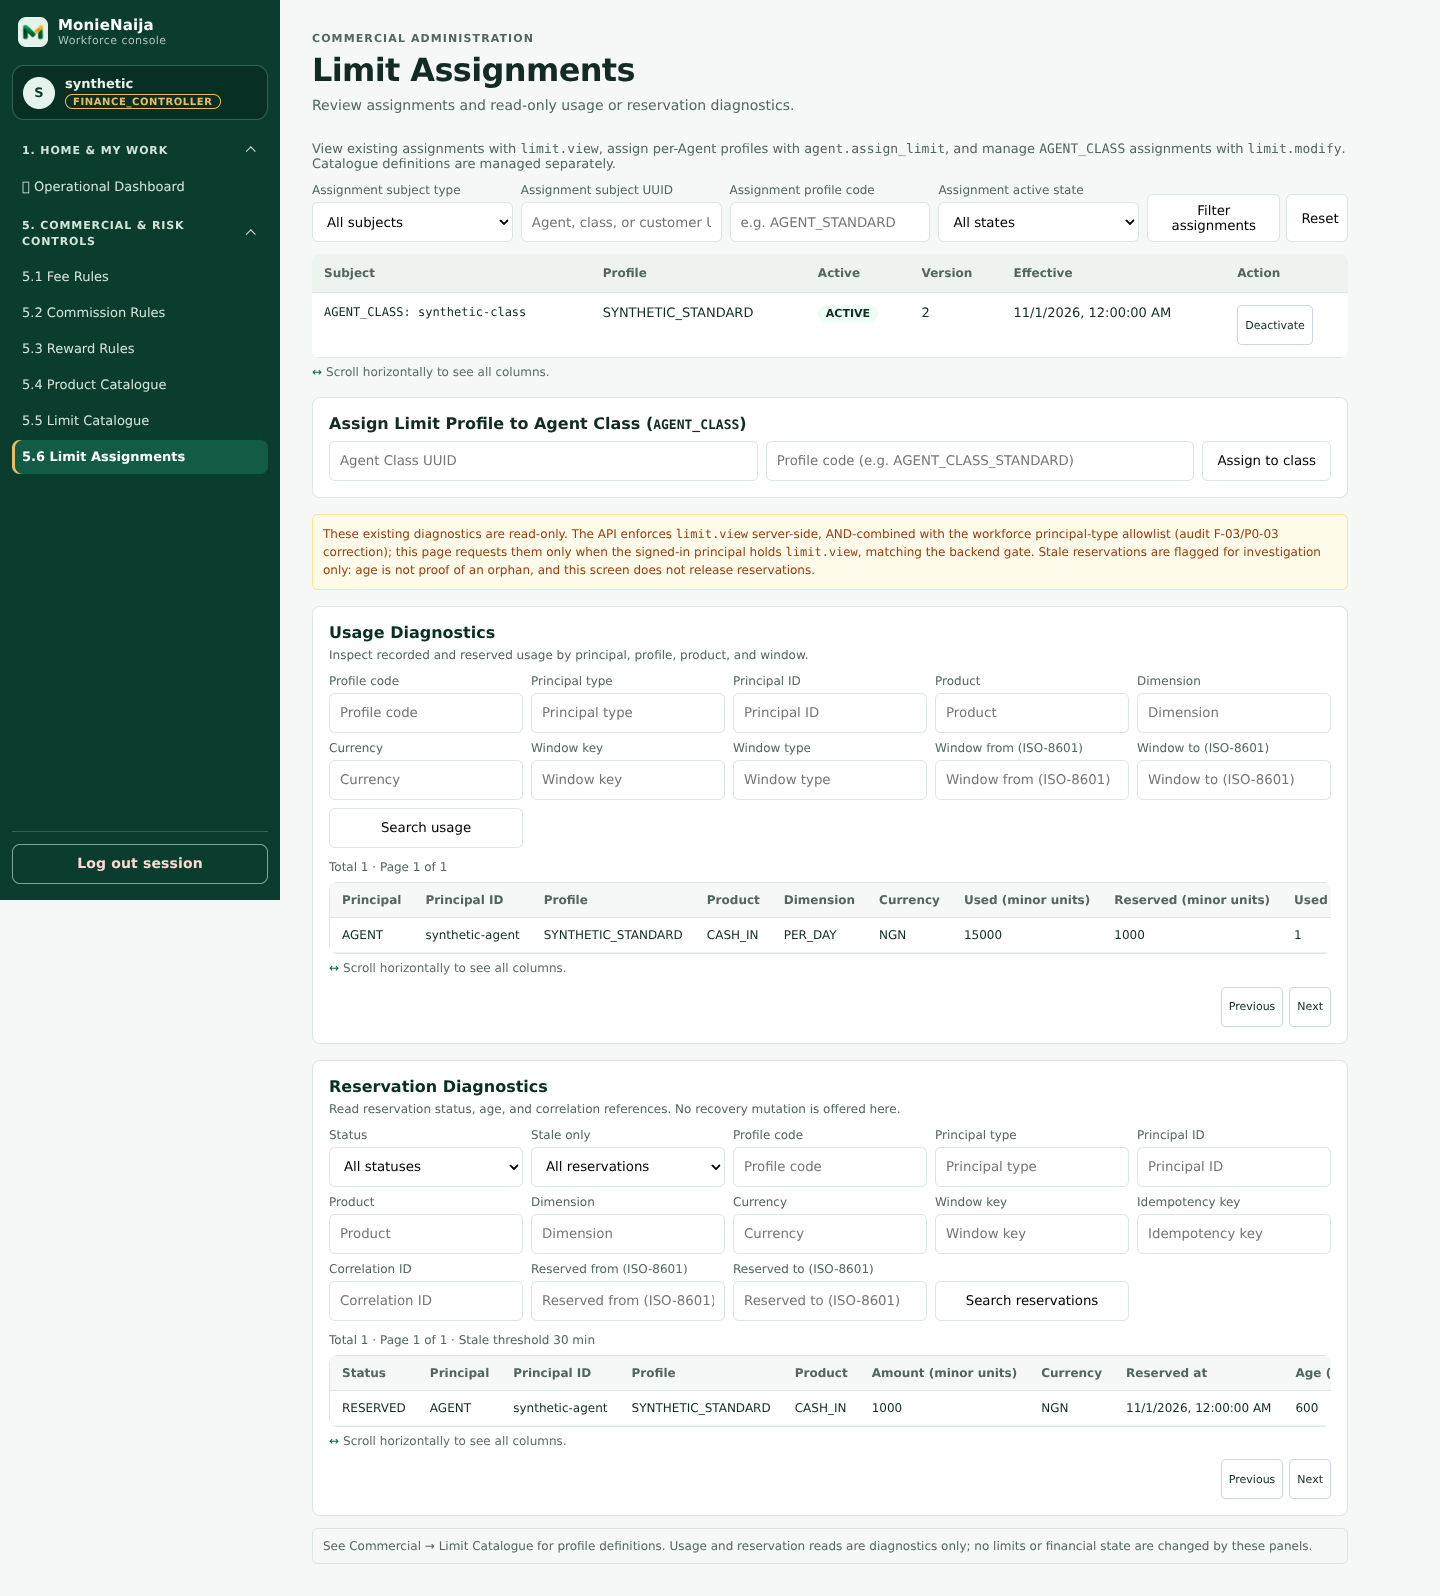
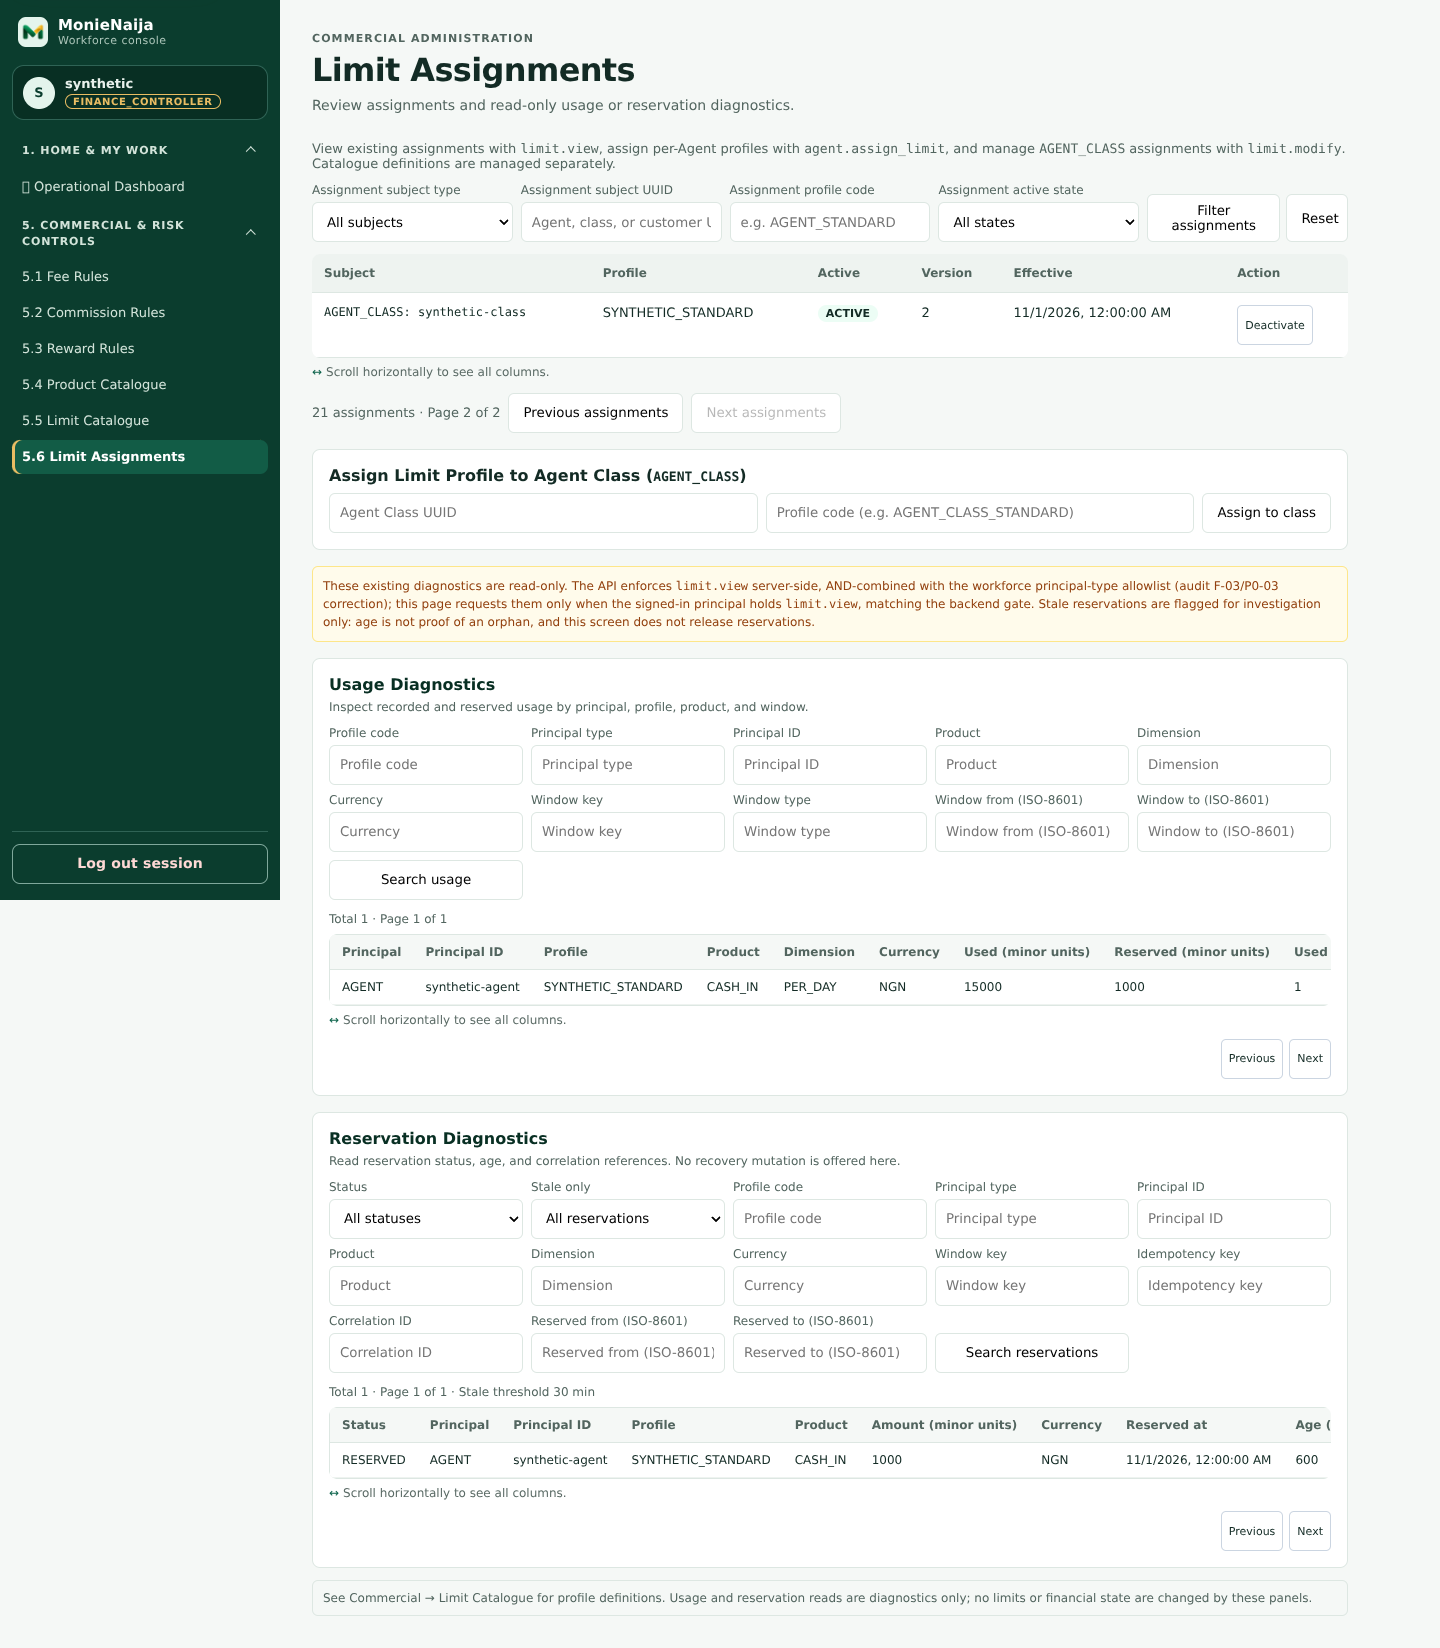
Paginate limit assignment investigations

diff --git a/apps/admin-web/src/screens/authenticated/LimitAssignmentScreen.tsx b/apps/admin-web/src/screens/authenticated/LimitAssignmentScreen.tsx
@@ -111,7 +111,8 @@ const LimitAssignmentWorkspace: React.FC<{ initialCustomerId?: string; onBackToC
 
   const [assignments, setAssignments] = useState<any[]>([]);
   const [assignmentsSearched, setAssignmentsSearched] = useState(false);
-  const [assignmentsTotal, setAssignmentsTotal] = useState<number | null>(null);
+  const [assignmentPage, setAssignmentPage] = useState<{ page: number; total: number; totalPages: number } | null>(null);
+  const [appliedAssignmentFilters, setAppliedAssignmentFilters] = useState({ subjectType: '', subjectId: '', limitProfileCode: '', isActive: '' });
   const [assignBusy, setAssignBusy] = useState(false);
   const [classAssignBusy, setClassAssignBusy] = useState(false);
   const [loading, setLoading] = useState(canReadAssignments);
@@ -142,22 +143,24 @@ const LimitAssignmentWorkspace: React.FC<{ initialCustomerId?: string; onBackToC
   const [usageError, setUsageError] = useState('');
   const [reservationError, setReservationError] = useState('');
 
-  const fetchAssignments = async (overrideFilters?: typeof assignmentFilters) => {
+  const fetchAssignments = async (overrideFilters?: typeof assignmentFilters, requestedPage = 1) => {
     if (!canReadAssignments) {
       setLoading(false);
       return;
     }
     const generation = ++generations.current.assignments;
-    setAssignments([]); setAssignmentsSearched(false); setAssignmentsTotal(null);
+    setAssignments([]); setAssignmentsSearched(false); setAssignmentPage(null);
+    const activeFilters = overrideFilters ?? assignmentFilters;
+    setAppliedAssignmentFilters(activeFilters);
     setLoading(true);
     setError('');
     try {
       let endpoint: string;
       if (initialCustomerId) {
-        endpoint = `/internal/limit-assignments/customer/${encodeURIComponent(initialCustomerId)}`;
+        endpoint = `/internal/limit-assignments/customer/${encodeURIComponent(initialCustomerId)}${requestedPage > 1 ? `?page=${requestedPage}` : ''}`;
       } else {
-        const activeFilters = overrideFilters ?? assignmentFilters;
         const query = new URLSearchParams();
+        if (requestedPage > 1) query.set('page', String(requestedPage));
         Object.entries(activeFilters).forEach(([key, value]) => {
           if (value.trim()) query.set(key, value.trim());
         });
@@ -168,8 +171,10 @@ const LimitAssignmentWorkspace: React.FC<{ initialCustomerId?: string; onBackToC
       if (generation !== generations.current.assignments) return;
       const rows = Array.isArray(response) ? response : response?.data ?? response?.items;
       if (!Array.isArray(rows) || !rows.every(validAssignment)) throw new Error('Limit assignments returned an invalid response.');
+      const hasPageInfo = Number.isSafeInteger(response?.page) && Number.isSafeInteger(response?.total) && Number.isSafeInteger(response?.totalPages);
+      if (hasPageInfo && (response.page !== requestedPage || response.total < rows.length || response.totalPages < 0 || response.page < 1)) throw new Error('Limit assignments returned an invalid or mismatched page.');
       setAssignments(rows); setAssignmentsSearched(true);
-      setAssignmentsTotal(Number.isSafeInteger(response?.total) && response.total >= rows.length ? response.total : null);
+      setAssignmentPage(hasPageInfo ? { page: response.page, total: response.total, totalPages: response.totalPages } : null);
     } catch (err: any) {
       if (generation === generations.current.assignments) setError(err?.message || 'Failed to load limit assignments');
     } finally {
@@ -546,7 +551,12 @@ const LimitAssignmentWorkspace: React.FC<{ initialCustomerId?: string; onBackToC
               </tbody>
             </table></ScrollRegion>
           )}
-          {assignmentsSearched && assignmentsTotal !== null && assignmentsTotal > assignments.length && <p style={note}>Showing the first {assignments.length} of {assignmentsTotal} assignments. Narrow the filters to inspect additional records.</p>}
+          {assignmentsSearched && assignmentPage && <div className="mn-limit-assignment__pager" aria-label="Assignment pagination">
+            <span>{assignmentPage.total} assignment{assignmentPage.total === 1 ? '' : 's'} · Page {assignmentPage.page}{assignmentPage.totalPages > 0 ? ` of ${assignmentPage.totalPages}` : ' (no results)'}</span>
+            <button type="button" style={btn} disabled={loading || assignmentPage.page <= 1} onClick={() => void fetchAssignments(appliedAssignmentFilters, assignmentPage.page - 1)}>Previous assignments</button>
+            <button type="button" style={btn} disabled={loading || assignmentPage.page >= assignmentPage.totalPages} onClick={() => void fetchAssignments(appliedAssignmentFilters, assignmentPage.page + 1)}>Next assignments</button>
+          </div>}
+          {assignmentsSearched && !assignmentPage && <p style={note}>Assignment pagination is not confirmed by this response.</p>}
         </>
       )}
 

diff --git a/apps/admin-web/__tests__/m2-limit-assignment.test.tsx b/apps/admin-web/__tests__/m2-limit-assignment.test.tsx
@@ -20,3 +20,13 @@ test('editing diagnostics filters invalidates late results',async()=>{
 test('an old assignment read cannot cross to another principal',async()=>{
  const pending=deferred();let calls=0;(ApiClient.get as jest.Mock).mockImplementation(()=>++calls===1?pending.promise:Promise.resolve({data:[]}));render(<LimitAssignmentScreen/>);act(()=>principal('two'));await screen.findByText('No matching limit assignments.');await act(async()=>{pending.resolve({data:[row]});await pending.promise;});expect(screen.queryByText('CLASS_STANDARD')).toBeNull();
 });
+test('assignment pagination preserves applied filters and uses the server page',async()=>{
+ (ApiClient.get as jest.Mock).mockImplementation((url:string)=>{
+   if(url.includes('page=2')) return Promise.resolve({data:[{...row,id:'page-two',limitProfileCode:'SECOND_PROFILE',version:2}],total:21,page:2,totalPages:2});
+   return Promise.resolve({data:[{...row,version:1}],total:21,page:1,totalPages:2});
+ });
+ render(<LimitAssignmentScreen/>);await screen.findByText('CLASS_STANDARD');fireEvent.change(screen.getByLabelText('Assignment subject type'),{target:{value:'AGENT_CLASS'}});fireEvent.click(screen.getByRole('button',{name:'Filter assignments'}));await screen.findByText('21 assignments · Page 1 of 2');fireEvent.click(screen.getByRole('button',{name:'Next assignments'}));expect(await screen.findByText('SECOND_PROFILE')).toBeTruthy();expect(ApiClient.get).toHaveBeenCalledWith('/internal/limit-assignments?page=2&subjectType=AGENT_CLASS');expect(screen.getByText('21 assignments · Page 2 of 2')).toBeTruthy();
+});
+test('assignment page metadata cannot claim a different requested page',async()=>{
+ (ApiClient.get as jest.Mock).mockImplementation((url:string)=>Promise.resolve({data:[{...row,version:1}],total:21,page:1,totalPages:2}));render(<LimitAssignmentScreen/>);await screen.findByText('21 assignments · Page 1 of 2');fireEvent.click(screen.getByRole('button',{name:'Next assignments'}));expect(await screen.findByText(/invalid or mismatched page/)).toBeTruthy();expect(screen.queryByText('21 assignments · Page 1 of 2')).toBeNull();
+});

diff --git a/apps/admin-web/src/screens/authenticated/limit-assignment.css b/apps/admin-web/src/screens/authenticated/limit-assignment.css
@@ -1,3 +1,4 @@
 .mn-limit-assignment { font-family: var(--mn-font-sans); color: var(--mn-text-primary); }
 .mn-limit-assignment :is(button, input, select) { min-height: 40px; min-width: 0; }
 .mn-limit-assignment :is(code, [role="alert"], [role="status"]) { overflow-wrap: anywhere; }
+.mn-limit-assignment__pager { display: flex; flex-wrap: wrap; align-items: center; gap: 8px; margin: 12px 0; color: var(--mn-text-secondary); font-size: 13px; }

diff --git a/docs/admin-m2/implementation-checklist.md b/docs/admin-m2/implementation-checklist.md
@@ -34,7 +34,7 @@ Baseline: `3b0ca4488fb40ac5a64ed4ff6264dc64be2e954e` (fetched integration branch
 | [A15](../design-discovery-20261029/01-inventory.md#A15) | rewardRules | Partial: commercial layout, keyboard tabs, malformed list/principal guards; synthetic populated registry at eight widths; restricted and keyboard review pending. |
 | [A16](../design-discovery-20261029/01-inventory.md#A16) | productCatalogue | Partial: commercial layout, keyboard tabs, malformed list/principal guards; synthetic populated registry at eight widths; restricted and keyboard review pending. |
 | [A17](../design-discovery-20261029/01-inventory.md#A17) | limitCatalogue | Partial: commercial layout, keyboard tabs, malformed list/principal guards and local-scrolling grid correction; synthetic populated profiles/rules at eight widths; restricted and keyboard review pending. |
-| [A18](../design-discovery-20261029/01-inventory.md#A18) | limitAssignments | Partial: context-scoped read/action guards, validated assignment receipts, pending state, no fabricated assignment version, diagnostic request validation; populated assignments/usage/reservations at eight widths; pagination beyond the first assignment page, role and mutation acceptance remain. |
+| [A18](../design-discovery-20261029/01-inventory.md#A18) | limitAssignments | Partial: context-scoped read/action guards, validated assignment receipts, pending state, no fabricated assignment version, diagnostic request validation; populated assignments/usage/reservations at eight widths; filter-preserving assignment pagination tested with synthetic pages; role and mutation acceptance remain. |
 | [A19](../design-discovery-20261029/01-inventory.md#A19) | kycQueue | Partial: labeled lookup, customer/request guards and action receipt validation; populated synthetic KYC and case results at eight widths; authorization and action review pending. |
 | [A20](../design-discovery-20261029/01-inventory.md#A20) | complianceCases | Partial: labeled lookup, customer/request guards and action receipt validation; populated synthetic KYC and case results at eight widths; authorization and action review pending. |
 | [A21](../design-discovery-20261029/01-inventory.md#A21) | fraudCases | Partial: labeled lookup and failure/empty separation; populated workflow review pending. |
@@ -71,12 +71,12 @@ Baseline: `3b0ca4488fb40ac5a64ed4ff6264dc64be2e954e` (fetched integration branch
 | Responsive widths and zoom | [Navigation smoke](evidence/navigation-smoke.json): 224 synthetic mostly initial/503 cases at 320, 360, 390, 768, 769, 1024, 1280 and 1440 px, no document overflow. [Loaded smoke](evidence/loaded-smoke.json): 24 populated Support, Fees and Ledger cases at those widths, no document overflow. [Agent](evidence/agent-workspaces-smoke.json), [Customer](evidence/customer-workspaces-smoke.json), and [Notification workspaces](evidence/notification-workspaces-smoke.json) add 104 synthetic populated checks at eight widths with no document overflow. [Recovery](evidence/recovery-smoke.json), [Workforce](evidence/workforce-smoke.json) and [generic approvals](evidence/approvals-smoke.json) add 48 synthetic checks at eight widths without document overflow. [Compliance](evidence/compliance-smoke.json) adds 24 and [Agent classes](evidence/agent-classes-smoke.json) adds 8 loaded synthetic checks, also without document overflow. [Transactions](evidence/transaction-workspaces-smoke.json) add 24, [Finance](evidence/finance-workspaces-smoke.json) 16, [Commercial](evidence/commercial-workspaces-smoke.json) 48 and [System/Audit](evidence/system-audit-smoke.json) 16 and [Cash-to-Cash](evidence/cash-to-cash-smoke.json) 8 synthetic checks across the same widths, without page-wide overflow. This is not comprehensive responsive acceptance; real 200%/400% zoom and all other populated/action states remain. |
 | Keyboard, contrast and assistive technology | Commercial tab keyboard test added; comprehensive manual keyboard, contrast and assistive technology review remains. |
 | Visual design, screenshots and owner acceptance | [Synthetic screenshots and scripts](evidence/) include Login, Dashboard, Support, Agents, Notifications, Transfers, populated Fees and Ledger at selected widths. They are not visual acceptance. Obtain Product/Design, Accessibility, Security and Finance/Operations review as applicable; historical design approval remains unconfirmed. |
-| Automated checks | Latest full run: frontend typecheck, 55 Jest suites / 385 tests and production build passed; `git diff --check` passed. React test `act(...)` warnings, Vite CJS deprecation and >500 kB bundle warning remain. No Admin lint script provided. |
+| Automated checks | Latest full run: frontend typecheck, 55 Jest suites / 387 tests and production build passed; `git diff --check` passed. React test `act(...)` warnings, Vite CJS deprecation and >500 kB bundle warning remain. No Admin lint script provided. |
 | CI, PR and integration | Not run / not opened / not merged: substantial implementation and acceptance remain outstanding. |
 
 ## Continuation plan
 
-1. Continue populated/action/restricted/error/keyboard review, prioritizing A18 assignment pagination and A05/A19–A25 role, MFA, failure, mutation and action coverage. A token or initial-state pass is not completion.
+1. Continue populated/action/restricted/error/keyboard review, prioritizing A05/A19–A25 role, MFA, failure, mutation and action coverage, followed by full embedded-workflow keyboard, authorization and zoom review. A token or initial-state pass is not completion.
 2. Notification template channel isolation and principal-change regressions added; continue targeted refresh ordering, provider mutation completion/context guards and credential draft semantics tests, without live sends or provider calls.
 3. Extend synthetic browser fixtures to populated, empty, error, stale, loading, restricted and mutation/approval states for every view and embedded workflow. Test all specified widths, true browser zoom, keyboard, dialogs and accessibility without real backend actions.
 4. Review all finance formatting, freshness and reconciliation outcomes, then remaining request races and error/empty handling. Preserve APIs, permissions, MFA and maker-checker semantics.
